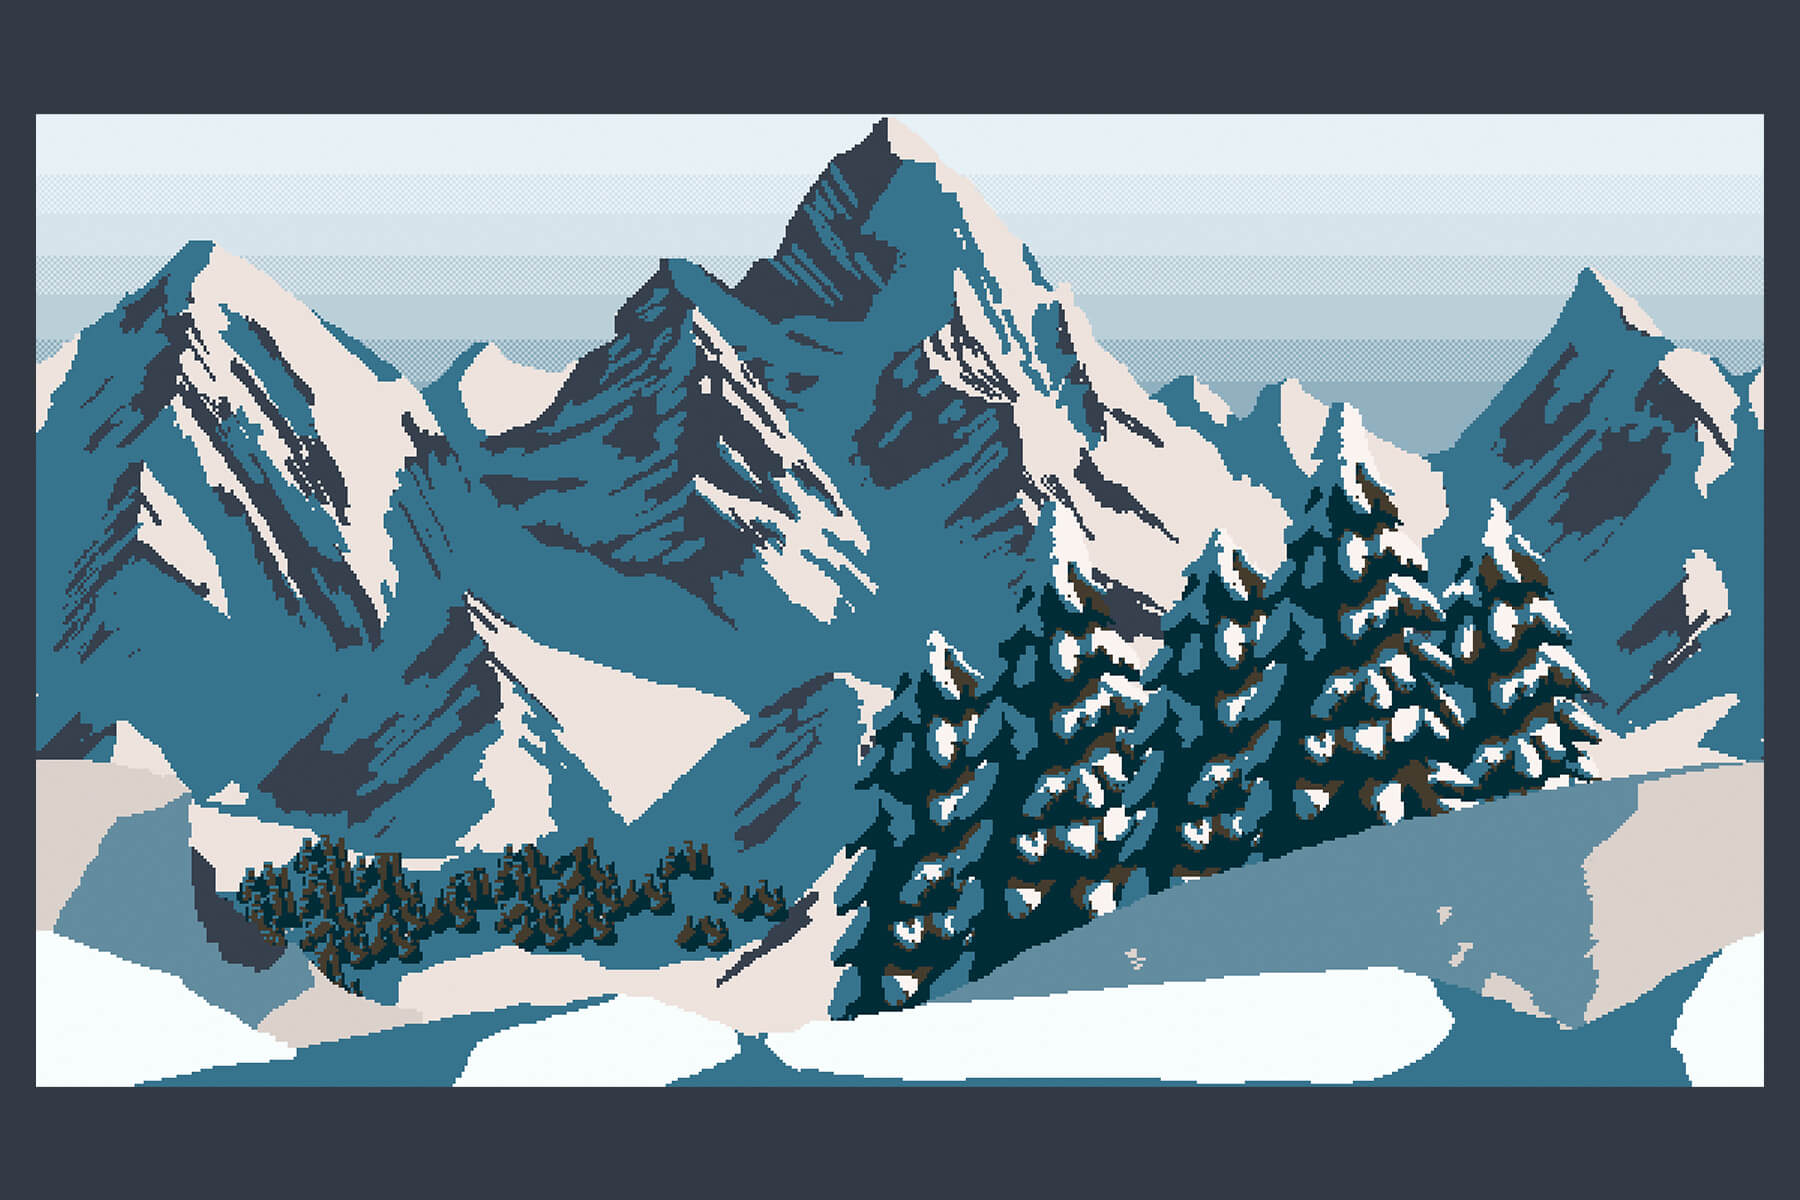
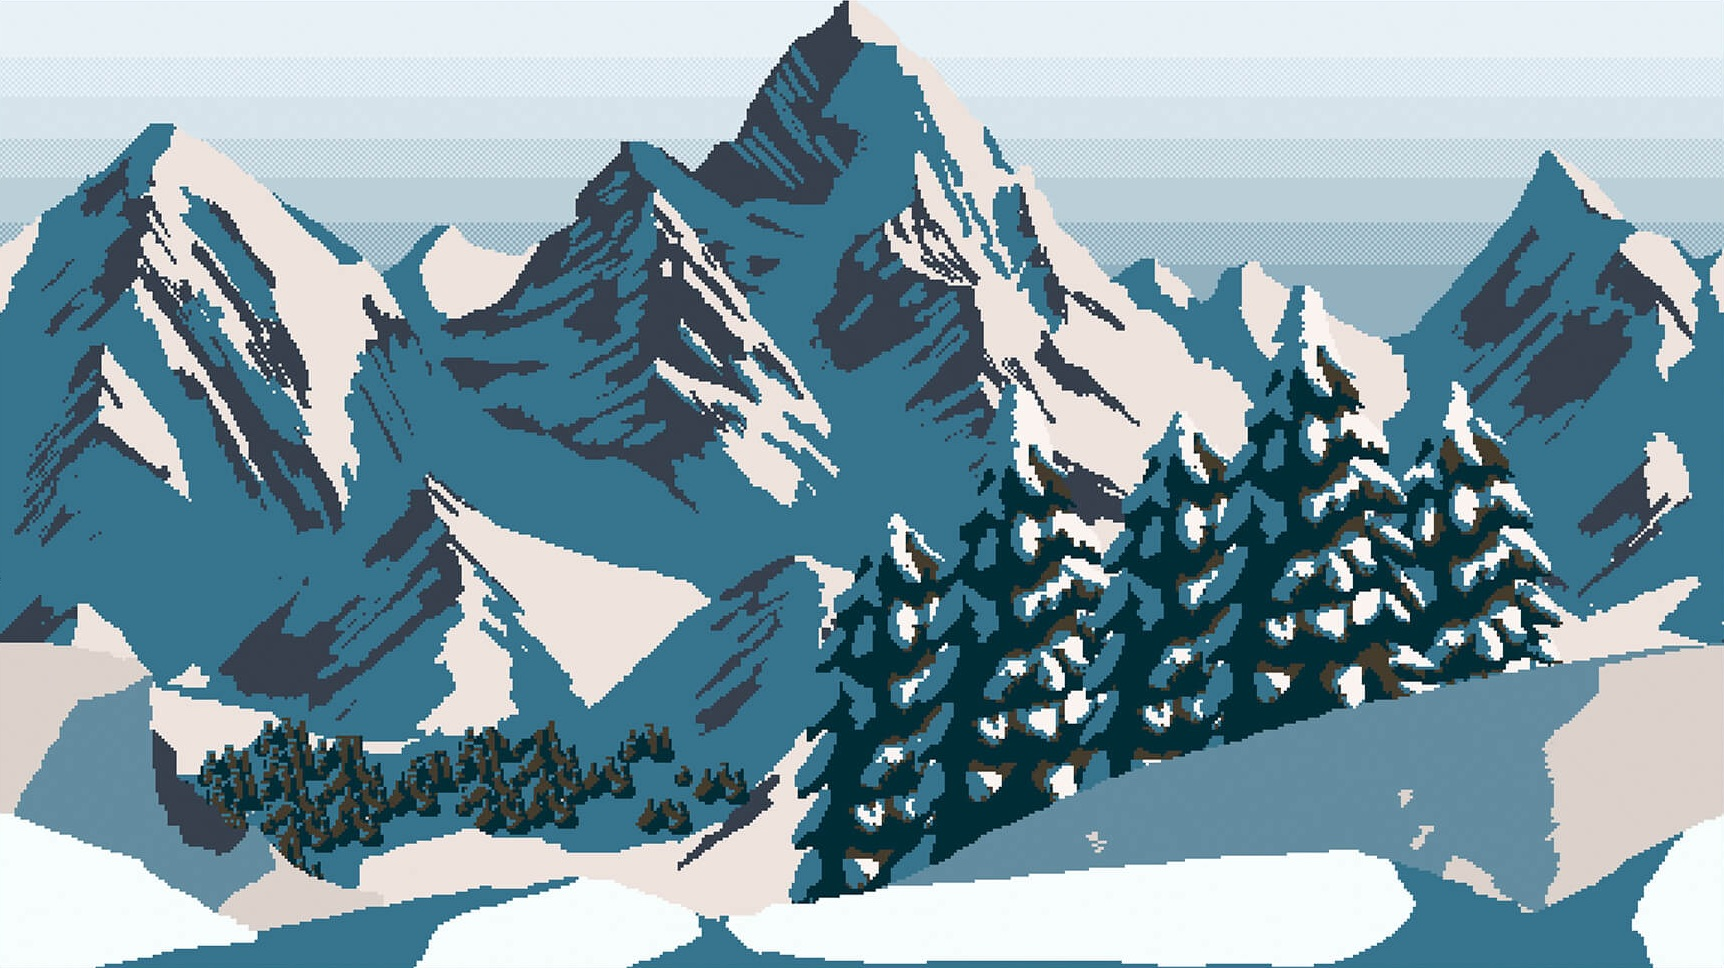
Replace: bg and endscene buttons

diff --git a/src/scenes/gameplay/Lucia/LuciaScene.ts b/src/scenes/gameplay/Lucia/LuciaScene.ts
@@ -1,13 +1,12 @@
 import Phaser from "phaser";
 import BaseLevelScene from "../BaseLevelScene";
-import type MusicNoteSprite from "../../../sprites/items/MusicNoteSprite";
 
 export default class LuciaScene extends BaseLevelScene {
   private snowMountain!: Phaser.GameObjects.TileSprite;
   private iceGround!: Phaser.GameObjects.TileSprite;
   private sop!: Phaser.Sound.BaseSound;
   private alt!: Phaser.Sound.BaseSound;
-  
+
   constructor() {
     super("LuciaScene");
   }
@@ -46,17 +45,17 @@ export default class LuciaScene extends BaseLevelScene {
 
     this.snowMountain = this.add.tileSprite(
       width / 2,
-      height * (2 / 6),
+      (height * 3) / 8,
       width,
-      height * (2 / 3),
+      (height * 3) / 4,
       this.songConfig.background.sky
     );
 
     this.iceGround = this.add.tileSprite(
       width / 2,
-      height - height / 3 / 2,
+      (height * 7) / 8,
       width,
-      height / 3,
+      height / 4,
       this.songConfig.background.ground
     );
 
@@ -67,14 +66,17 @@ export default class LuciaScene extends BaseLevelScene {
     );
 
     const groundImg = this.textures.get("ice-ground").getSourceImage();
-    this.ground.setScale(width / groundImg.width, height / 6 / groundImg.height);
+    this.ground.setScale(
+      width / groundImg.width,
+      height / 6 / groundImg.height
+    );
     this.ground.refreshBody();
     this.ground.setVisible(false); //invisible, only used for collision
 
     this.snowMountain.setDepth(-10);
     this.iceGround.setDepth(-5);
     this.ground.setDepth(-1);
-    
+
     this.updateCamera();
   }
 
@@ -92,7 +94,7 @@ export default class LuciaScene extends BaseLevelScene {
       });
     }*/
   }
-  
+
   private updateCamera(): void {
     const camera = this.cameras?.main;
 
@@ -129,7 +131,7 @@ export default class LuciaScene extends BaseLevelScene {
     const height = this.scale.height;
 
     this.updateCamera();
-    
+
     if (this.snowMountain) {
       this.snowMountain.setSize(width, height);
     }

diff --git a/src/scenes/util/StartMenuScene.ts b/src/scenes/util/StartMenuScene.ts
@@ -9,13 +9,13 @@ export default class StartMenuScene extends Phaser.Scene {
   private popupContainer: Popup | null = null;
   private popupStack: Popup[] = []; // stack popups for song select and part select
   private resizeHandler?: (size: Phaser.Structs.Size) => void;
-
+  
   constructor() {
     super({ key: "StartMenuScene" });
   }
 
   preload(): void {
-    this.load.image("menu-bg", "/assets/img/menu-bg.png");
+    this.load.image("menu-bg", "/assets/img/menu-bg-purple-grid.png");
 
     Object.values(SongRegistry).forEach((song) => {
       Object.values(song.parts).forEach((part) => {

diff --git a/src/scenes/util/EndMenuScene.ts b/src/scenes/util/EndMenuScene.ts
@@ -16,7 +16,7 @@ export default class EndMenuScene extends Phaser.Scene {
   }
 
   preload(): void {
-    this.load.image("endmenu-bg", "/assets/img/menu-bg.png");
+    this.load.image("endmenu-bg", "/assets/img/menu-bg-purple-grid.png");
     this.load.image("replay-button", "/assets/img/replay-button.png");
     this.load.image("mainmenu-button", "/assets/img/start-button.png");
   }
